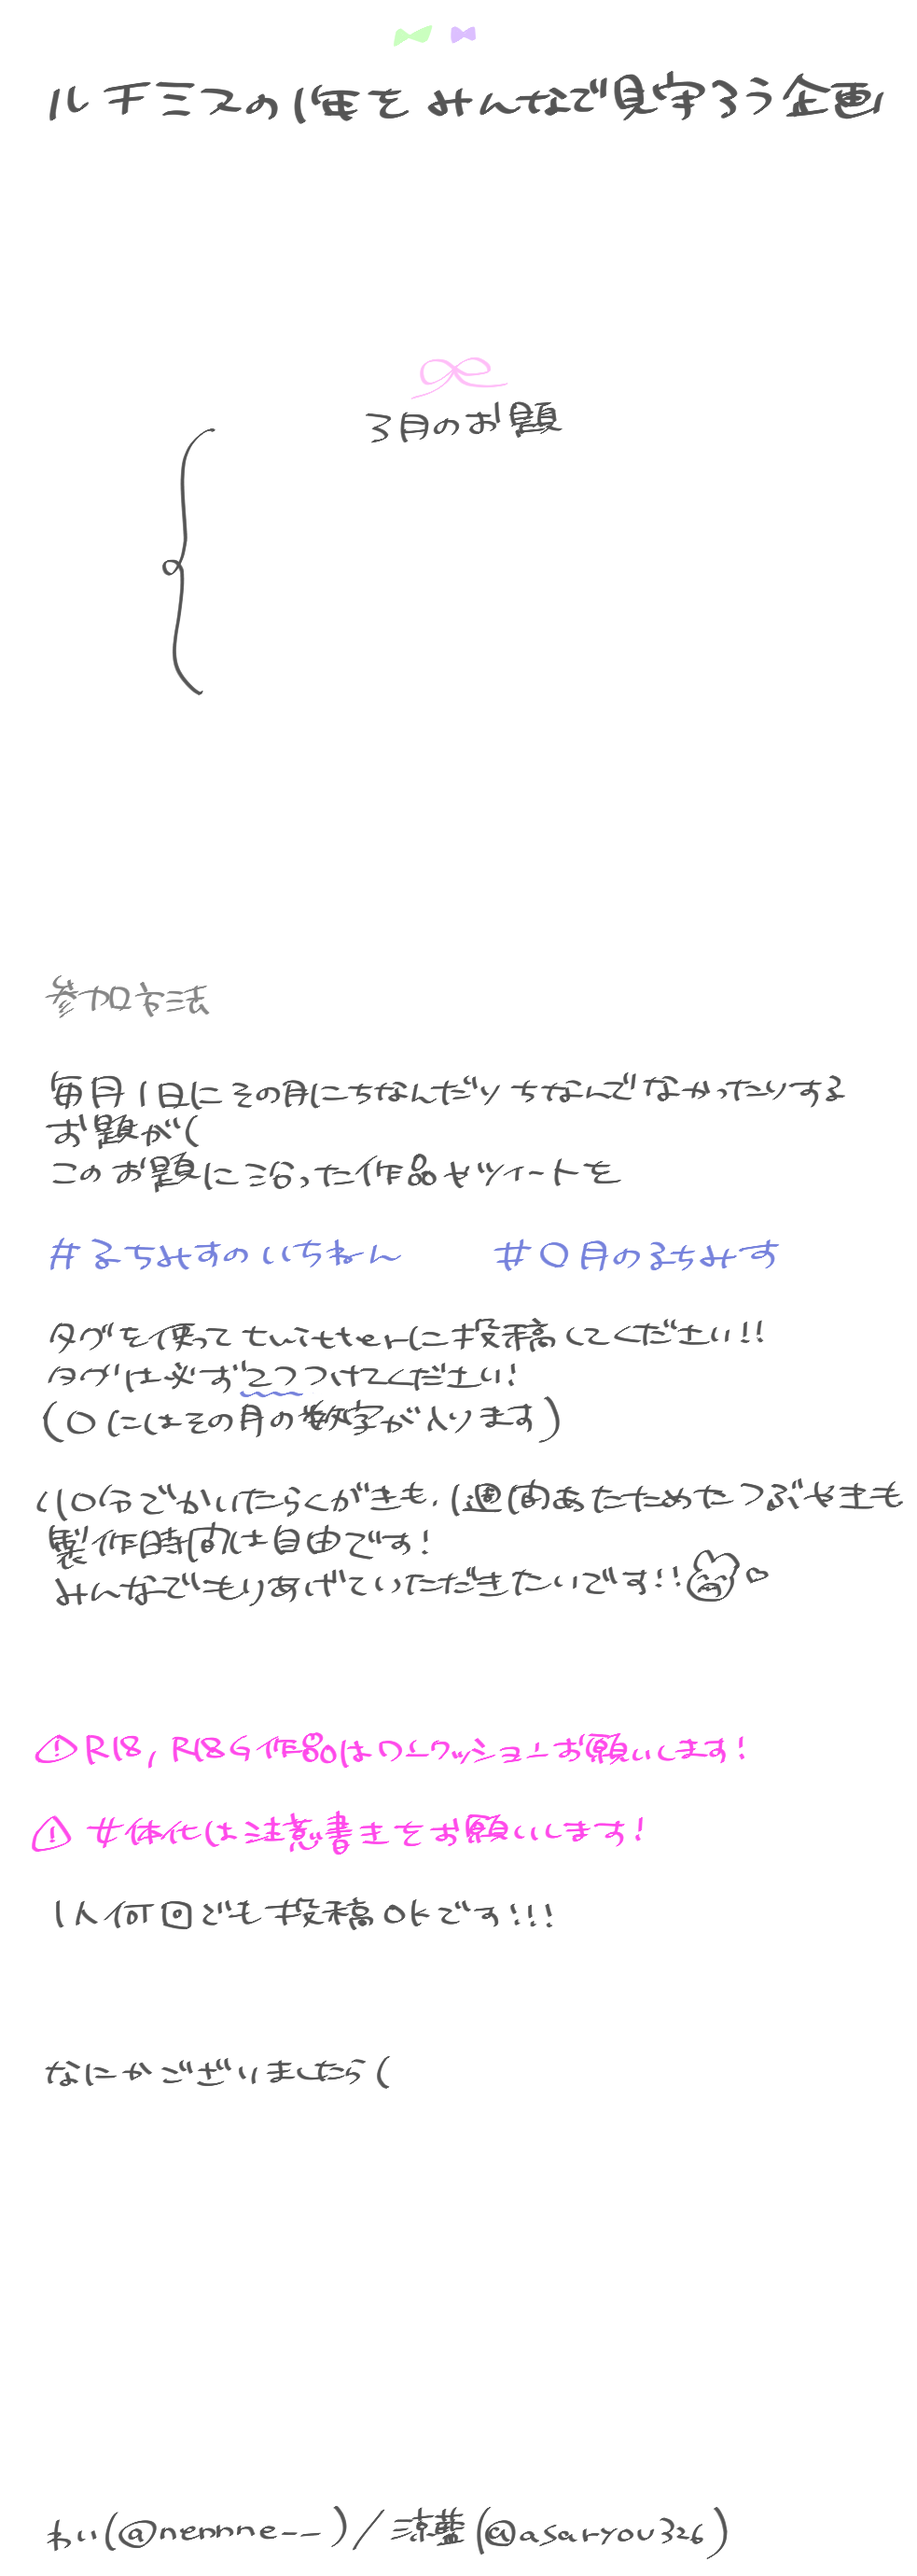
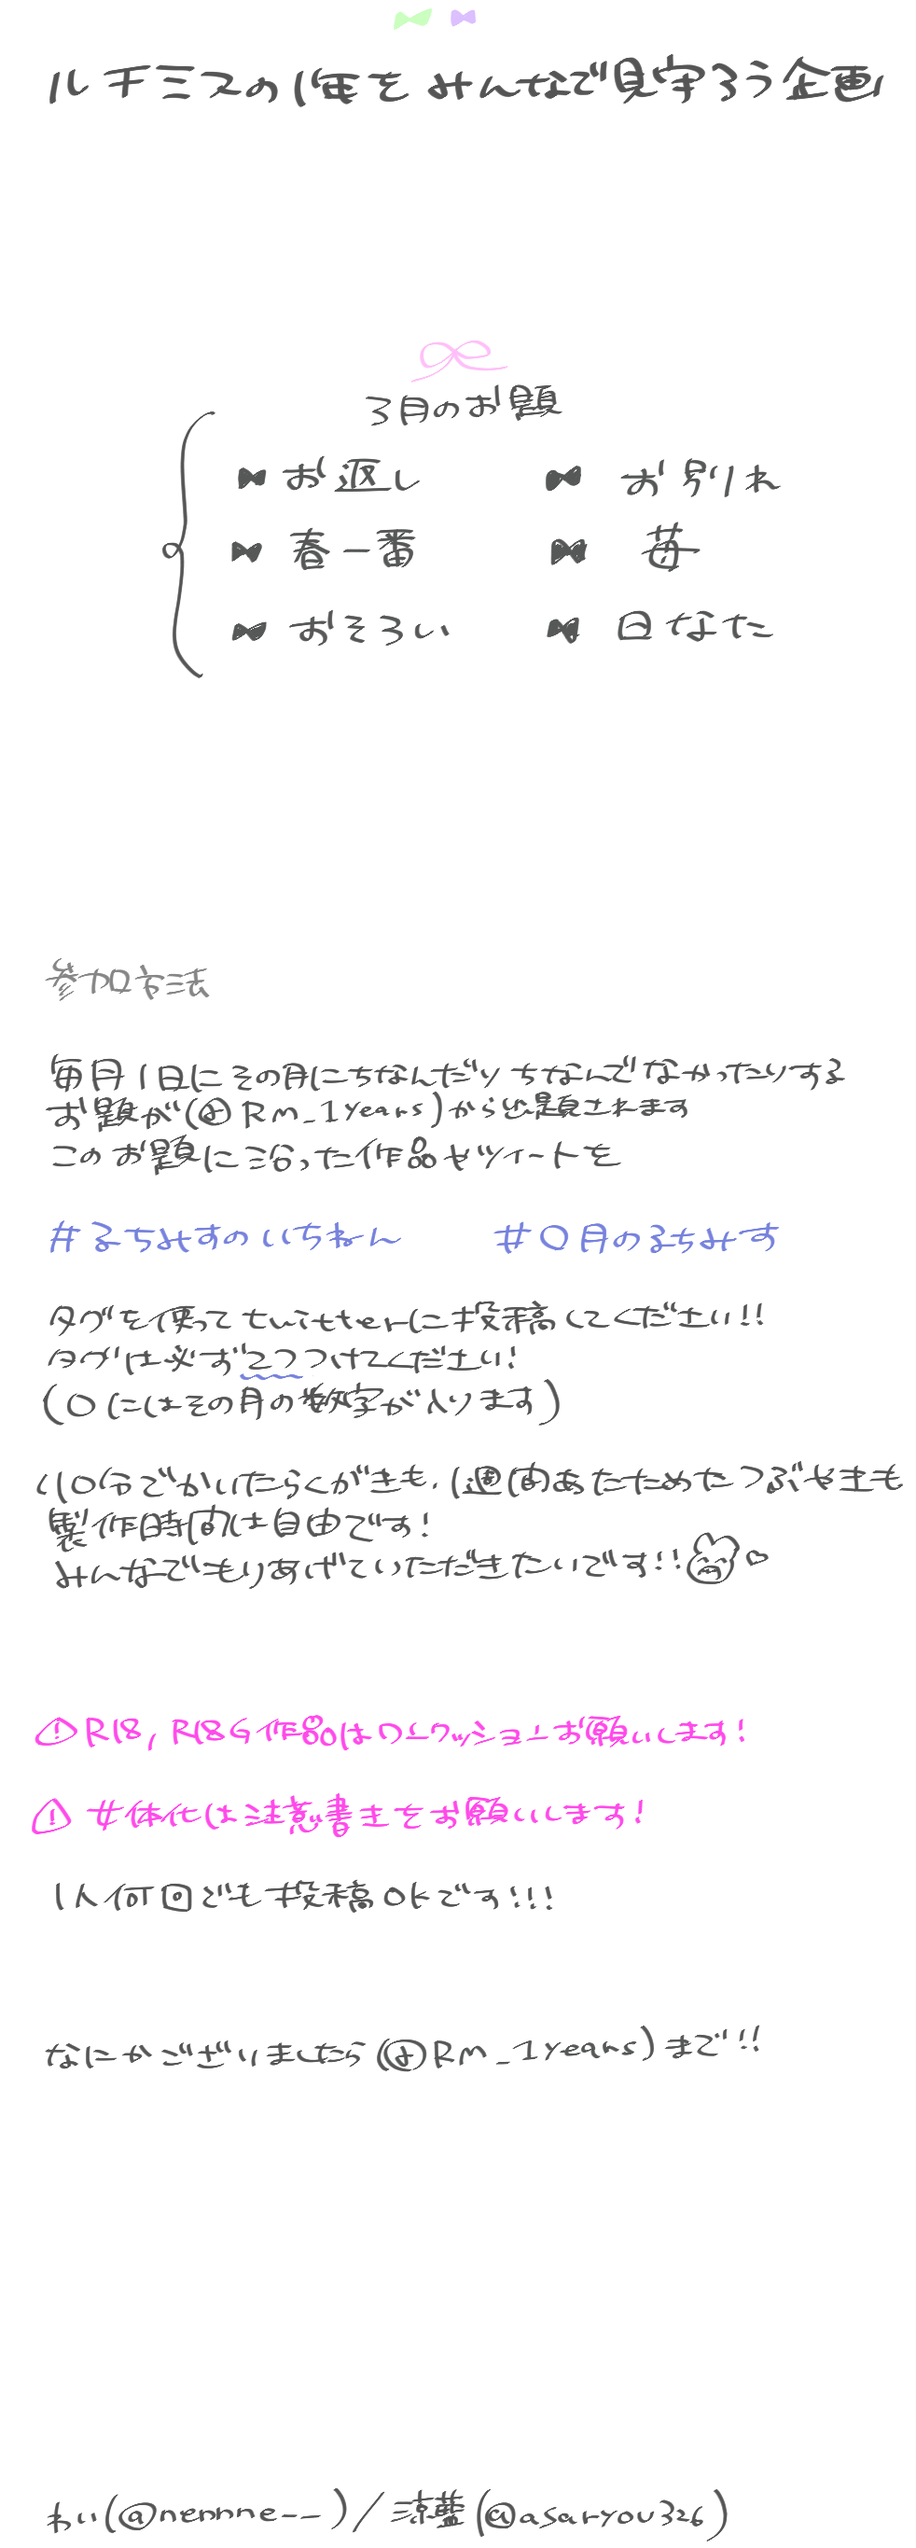
march

diff --git a/css/kihon.css b/css/kihon.css
@@ -17,7 +17,6 @@ body {
     height: 80%;
     background:url('../gazou/titletouka.png') no-repeat;
     background-size: 40% auto;
-    /* background-attachment: fixed; */
     position: relative;
     z-index: 2;
     background-position: center 30%;
@@ -30,9 +29,6 @@ body {
     height: 180%;
     position: relative;
     z-index: 4;
-/*     background-size: 30% auto;
-    background-position: right bottom;
-    background-color: transparent; */
     text-align: center;
 }
 .tag{
@@ -70,7 +66,7 @@ body {
     display: inline-block;
     position: absolute;
     z-index: 2;
-    opacity: 0;
+    opacity: 0.1;
 }
 .img2{
     padding: 0;
@@ -93,7 +89,6 @@ body {
     width:40%;
     height: auto;
     display: inline-block;
-    /* position: absolute; */
 }
 .midashi1{
     margin-left: auto;
@@ -135,7 +130,6 @@ body {
         height: 80%;
         background:url('../gazou/titletouka.png') no-repeat;
         background-size: 40% auto;
-        /* background-attachment: fixed; */
         position: relative;
         z-index: 2;
         background-position: center 30%;
@@ -148,9 +142,6 @@ body {
         height: 50%;
         position: relative;
         z-index: 4;
-    /*     background-size: 30% auto;
-        background-position: right bottom;
-        background-color: transparent; */
         text-align: center;
     }
     .tag{
@@ -162,7 +153,7 @@ body {
         padding: 0;
         margin: 0;
         width:100%;
-        height: 165%;
+        height: 100%;
         background:url('../gazou/sitanoaoiyatutouka.png') no-repeat;
         position: relative;
         z-index: 3;
@@ -188,14 +179,15 @@ body {
         display: inline-block;
         position: absolute;
         z-index: 2;
-        opacity: 0;
+        opacity: 0.1;
     }
     .img2{
         padding: 0;
         margin-left:auto;
         margin-right:0px;
         width:30%;
-        height: auto;    display: inline-block;
+        height: auto;    
+        display: inline-block;
         position:absolute;
         right: 0;
         bottom: 0;
@@ -210,8 +202,6 @@ body {
         width:40%;
         height: auto;
         display: inline-block;
-        /* position: absolute; */
-        /* position: center; */
     }
     .midashi1{
         margin-left: auto;
@@ -236,126 +226,6 @@ body {
     }
 }
 
-/* @media (max-width : 599px) {
-    html {
-        height: 100%;
-        font-size: x-large;
-    }
-    
-    body {
-        margin:0;
-        height: 100%;
-        font-family: Arial, Helvetica, sans-serif ;
-    }
-    .box1{
-        padding: 0;
-        margin: 0;
-        width: 100%;
-        height: 90%;
-        background:url('../gazou/titletouka.png') no-repeat;
-        background-size: 80% auto;
-        /* background-attachment: fixed; 
-        position: relative;
-        z-index: 2;
-        background-position: center 30%;
-        background-color: transparent;
-    }
-    .box3{
-        padding: 0;
-        margin: 0;
-        width:100%;
-        height: 80%;
-        position: relative;
-        z-index: 4;
-    /*     background-size: 30% auto;
-        background-position: right bottom;
-        background-color: transparent; 
-        text-align: center;
-    }
-    .tag{
-        padding: 0;
-        margin: 0;
-        color:cornflowerblue;
-    }
-    .box4{
-        padding: 0;
-        margin: 0;
-        width:100%;
-        height: 205%;
-        background:url('../gazou/sitanoaoiyatutouka.png') no-repeat;
-        position: relative;
-        z-index: 3;
-        background-size: 100% auto;
-        background-position: center bottom;
-        background-color: transparent;
-        text-align: center;
-    }
-    .twitter-follow-button{
-        position: relative;
-        margin-left: 0;
-        margin-right: 0;
-        bottom: 5%;
-        margin:auto;
-        display: inline-block;
-    }
-    .img1{
-        padding: 0;
-        margin-left:auto;
-        margin-right:auto;
-        width:100%;
-        height: auto;
-        display: inline-block;
-        position: absolute;
-        z-index: 2;
-        opacity: 0;
-    }
-    .img2{
-        padding: 0;
-        margin-left:auto;
-        margin-right:0px;
-        width:30%;
-        height: auto;
-        display: inline-block;
-        position:absolute;
-        right: 0;
-        bottom: 0;
-        z-index: 2;
-        background-color: transparent;
-        opacity: 0.7;
-    }
-    .text1{
-        padding: 0;
-        margin-left:auto;
-        margin-right:auto;
-        width:60%;
-        height: auto;
-        display: inline-block;
-        /* position: absolute; */
-        /* position: center; 
-    }
-    .midashi1{
-        margin-left: auto;
-        margin-right: auto;
-        width: 80%;
-        position: center;
-        font-size: 1.2rem;
-    }
-    .midashi2{
-        margin-left: auto;
-        margin-right: auto;
-        width: 80%;
-        position: center;
-        font-size: 1rem;
-    }
-    .text{
-        margin-left: auto;
-        margin-right: auto;
-        width: 70%;
-        position: center;
-        font-size: 0.8rem;
-    }
-} */
-
 @media (max-width : 599px) {
     html {
         height: 100%;
@@ -374,7 +244,6 @@ body {
         height: 90%;
         background:url('../gazou/titletouka.png') no-repeat;
         background-size: 80% auto;
-        /* background-attachment: fixed; */
         position: relative;
         z-index: 2;
         background-position: center 30%;
@@ -387,9 +256,6 @@ body {
         height: 80%;
         position: relative;
         z-index: 4;
-    /*     background-size: 30% auto;
-        background-position: right bottom;
-        background-color: transparent; */
         text-align: center;
     }
     .tag{
@@ -427,7 +293,7 @@ body {
         display: inline-block;
         position: absolute;
         z-index: 2;
-        opacity: 0;
+        opacity: 0.1;
     }
     .img2{
         padding: 0;
@@ -450,8 +316,6 @@ body {
         width:auto;
         height: 80%;
         display: inline-block;
-        /* position: absolute; */
-        /* position: center; */
     }
     .midashi1{
         margin-left: auto;

diff --git a/js/parallax.js b/js/parallax.js
@@ -3,14 +3,13 @@ $(function(){
     var window_h = window.innerHeight;
     console.log(window_h);
     
-    var kfOpc = 0;
+    var kfOpc = 0.1;
     $('.img1').css('opacity',kfOpc);
 
             $(window).scroll(function(){
                 var roll = $(this).scrollTop();
                 console.log(roll);
                 var rollper = roll/window_h;
-                // var rollstop = '90vh';
                 if(rollper < 0.2){
                     $('.box1').css('background-position','center 30%');
                     $('.img1').css('top',rollper*100*0.7+'vh');
@@ -26,17 +25,11 @@ $(function(){
 
                 }else if(rollper >= 0.3 && rollper < 0.7){
                     $('.box3').css('background-position','right '+(rollper*100*0.1)+'vh');
-                    // $('.img2').css('top',rollper*100*0.45+'vh');
 
                 }else if(rollper >= 0.7 && rollper < 1){
-                    // $('.box4').css('background-position','center '+(rollper*100*0.1)+'vh');
-                    // $('.img2').css('top',rollper*100*0.45+'vh');
                     
                 }else if(rollper >= 1){
-                    // $('.img1').css('top',0);
                     $('.box3').css('background-position','right 0');
-                    // $('.box4').css('background-position','center bottom');
-                    // $('.img2').css('position','right bottom');
                 }else{
 
                 }                

diff --git a/index.html b/index.html
@@ -37,7 +37,7 @@
         <div id="bg4" class="box4">
             <img src="gazou/texttouka.png" class="text1">
             <p>
-                <a href="https://twitter.com/asaryou326?ref_src=twsrc%5Etfw" class="twitter-follow-button" data-show-count="false">Follow @asaryou326</a><script async src="https://platform.twitter.com/widgets.js" charset="utf-8"></script>
+                <a href="https://twitter.com/RM_1years?ref_src=twsrc%5Etfw" class="twitter-follow-button" data-show-count="false">Follow @RM_1years</a><script async src="https://platform.twitter.com/widgets.js" charset="utf-8"></script>
             </p>
             <img src="gazou/icontouka.png" class="img2">
             
